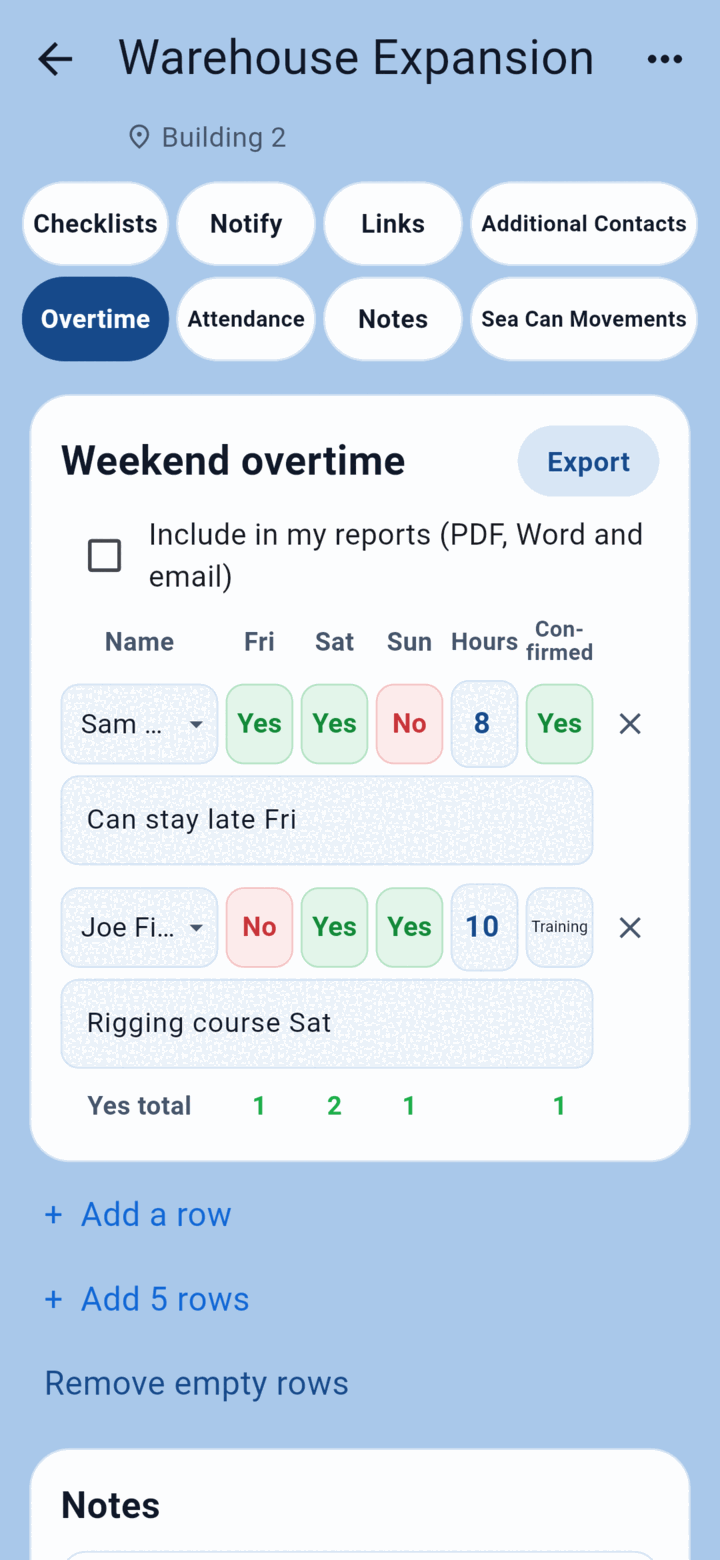
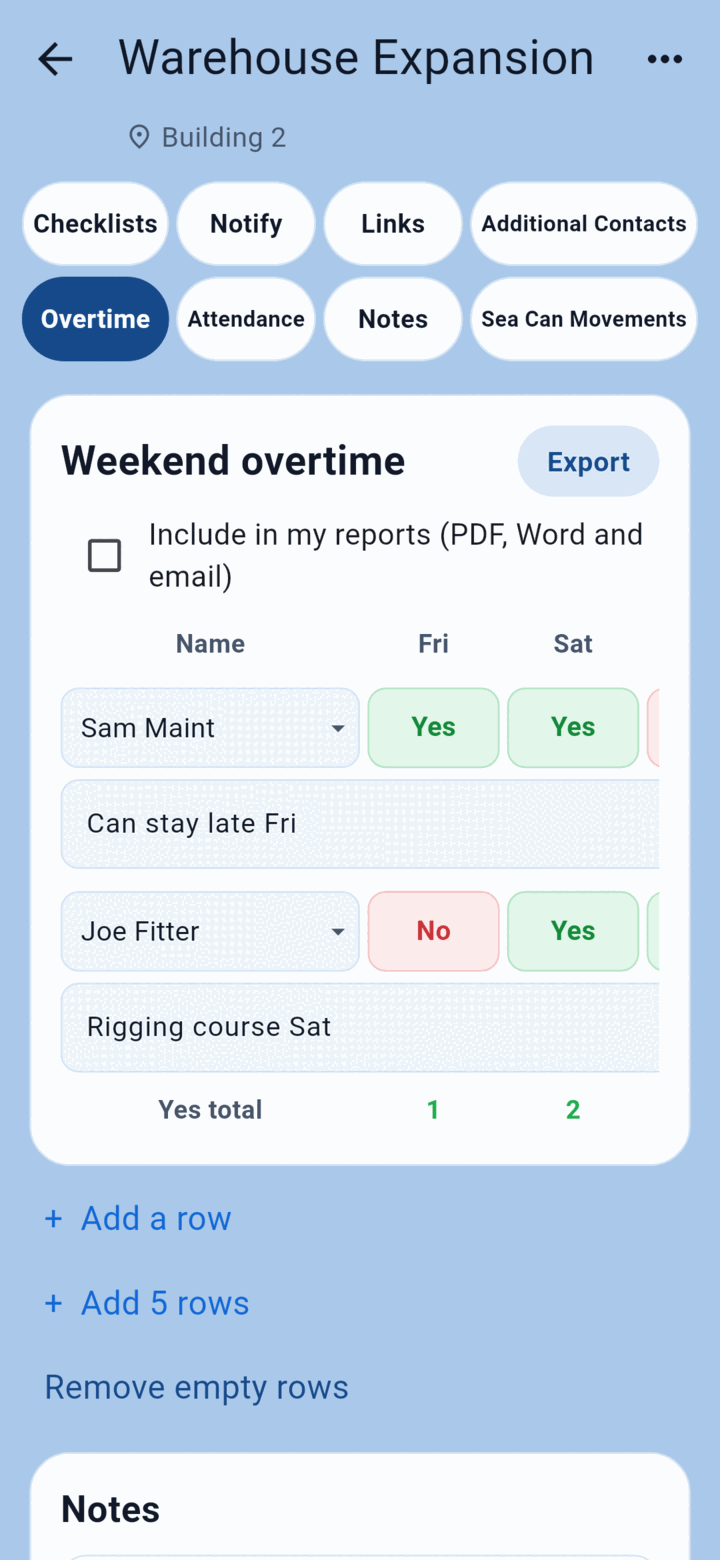
Overtime table slides sideways in the classic app too. Version 4.41
Claude-Session: https://claude.ai/code/session_01SU9pkUf5APMbUYgKfLLGdu

diff --git a/classic-android/app/src/main/java/com/dailyworklog/app/OvertimePane.java b/classic-android/app/src/main/java/com/dailyworklog/app/OvertimePane.java
@@ -29,6 +29,8 @@ final class OvertimePane {
 
     private static final String PICK = "Select\u2026", BLANK = "\u2013";
     private static final float NAME_W = 2.2f;
+    /** The table is at least this wide (full names, "Training" at normal size); narrower phones slide it sideways. */
+    private static final int MIN_WIDTH_DP = 580;
 
     static void render(Activity a, Store store, Models.Project p, LinearLayout box) {
         // Redrawing must not jump the screen back to the top.
@@ -87,7 +89,15 @@ final class OvertimePane {
         hours.setEllipsize(null);
         head.addView(conf, weight(a, 1f));
         head.addView(new View(a), removeSize(a));
-        card.addView(head);
+        // Headings, people (each with their comment) and totals slide sideways together.
+        LinearLayout grid = new LinearLayout(a);
+        grid.setOrientation(LinearLayout.VERTICAL);
+        grid.setMinimumWidth(Ui.dp(a, MIN_WIDTH_DP));
+        android.widget.HorizontalScrollView sideways = new android.widget.HorizontalScrollView(a);
+        sideways.setFillViewport(true);  // as wide as the screen when that's wider
+        sideways.addView(grid, new ViewGroup.LayoutParams(ViewGroup.LayoutParams.WRAP_CONTENT, ViewGroup.LayoutParams.WRAP_CONTENT));
+        card.addView(sideways);
+        grid.addView(head);
 
         List<String> names = new ArrayList<>();
         names.add(PICK);
@@ -104,7 +114,7 @@ final class OvertimePane {
 
         LinearLayout table = new LinearLayout(a);
         table.setOrientation(LinearLayout.VERTICAL);
-        card.addView(table);
+        grid.addView(table);
         for (Models.Overtime.OtRow r : ot.rows) table.addView(line(a, store, ot, table, r, names, refreshTotals));
 
         LinearLayout totals = row(a);
@@ -121,7 +131,7 @@ final class OvertimePane {
         totalViews[3] = confTotal;
         totals.addView(confTotal, weight(a, 1f));
         totals.addView(new View(a), removeSize(a));
-        card.addView(totals);
+        grid.addView(totals);
         refreshTotals.run();
 
         if (p.crew.isEmpty()) {
@@ -203,8 +213,9 @@ final class OvertimePane {
         }
         store.save();
         final View target = last;
+        // Only the row's start (the Name box), so the sideways scroller doesn't jump to the row's far end.
         target.post(() -> target.requestRectangleOnScreen(
-                new android.graphics.Rect(0, 0, target.getWidth(), target.getHeight()), false));
+                new android.graphics.Rect(0, 0, 1, target.getHeight()), false));
     }
 
     /**
